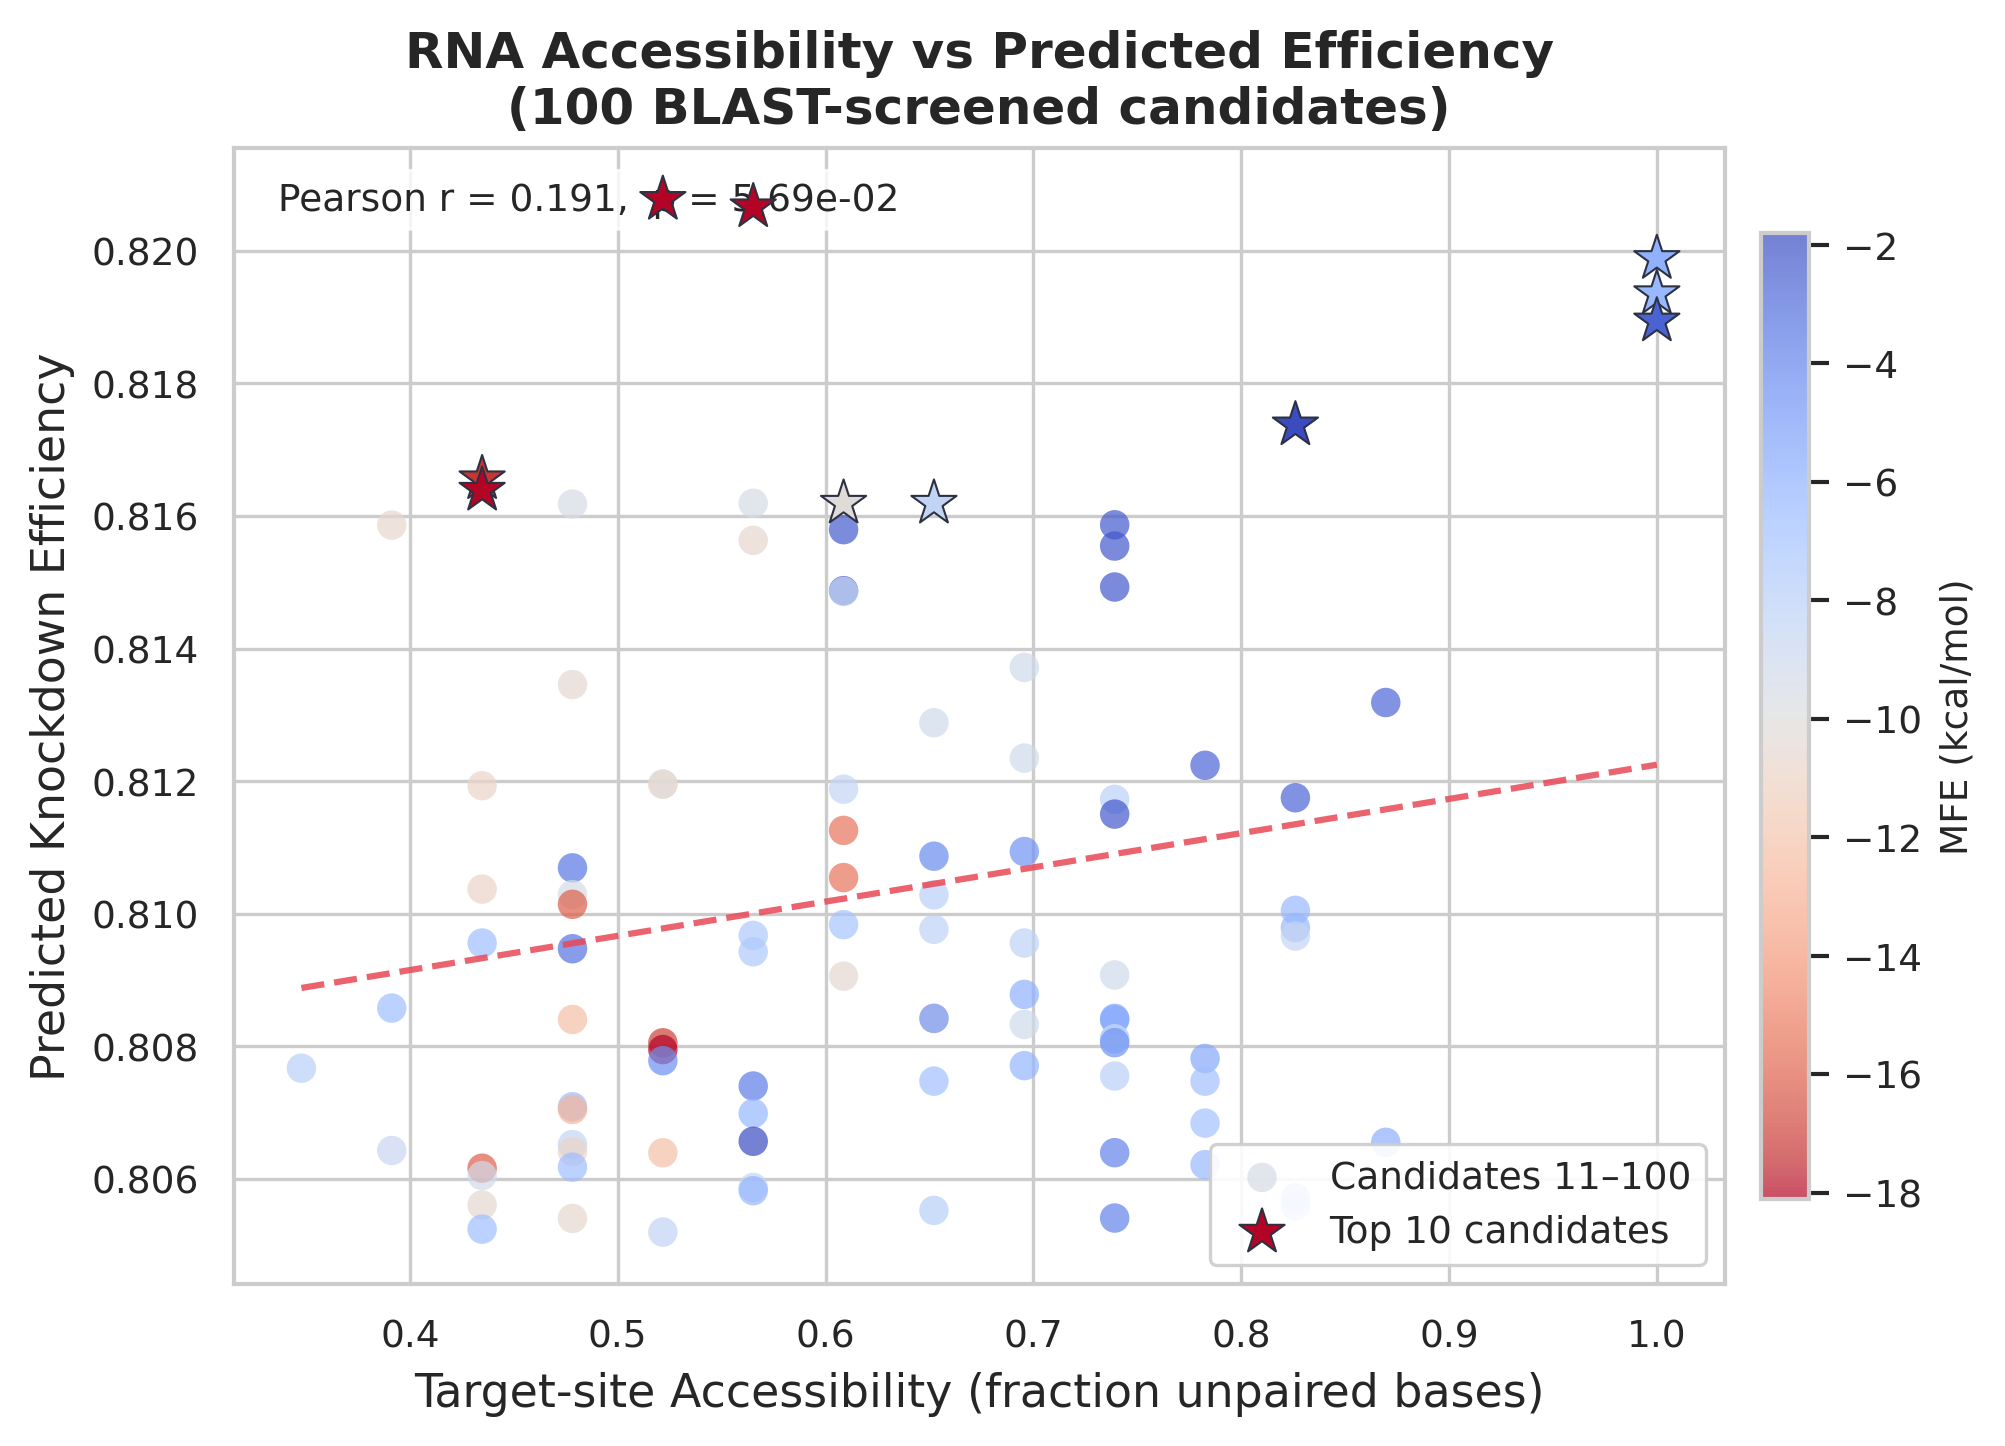
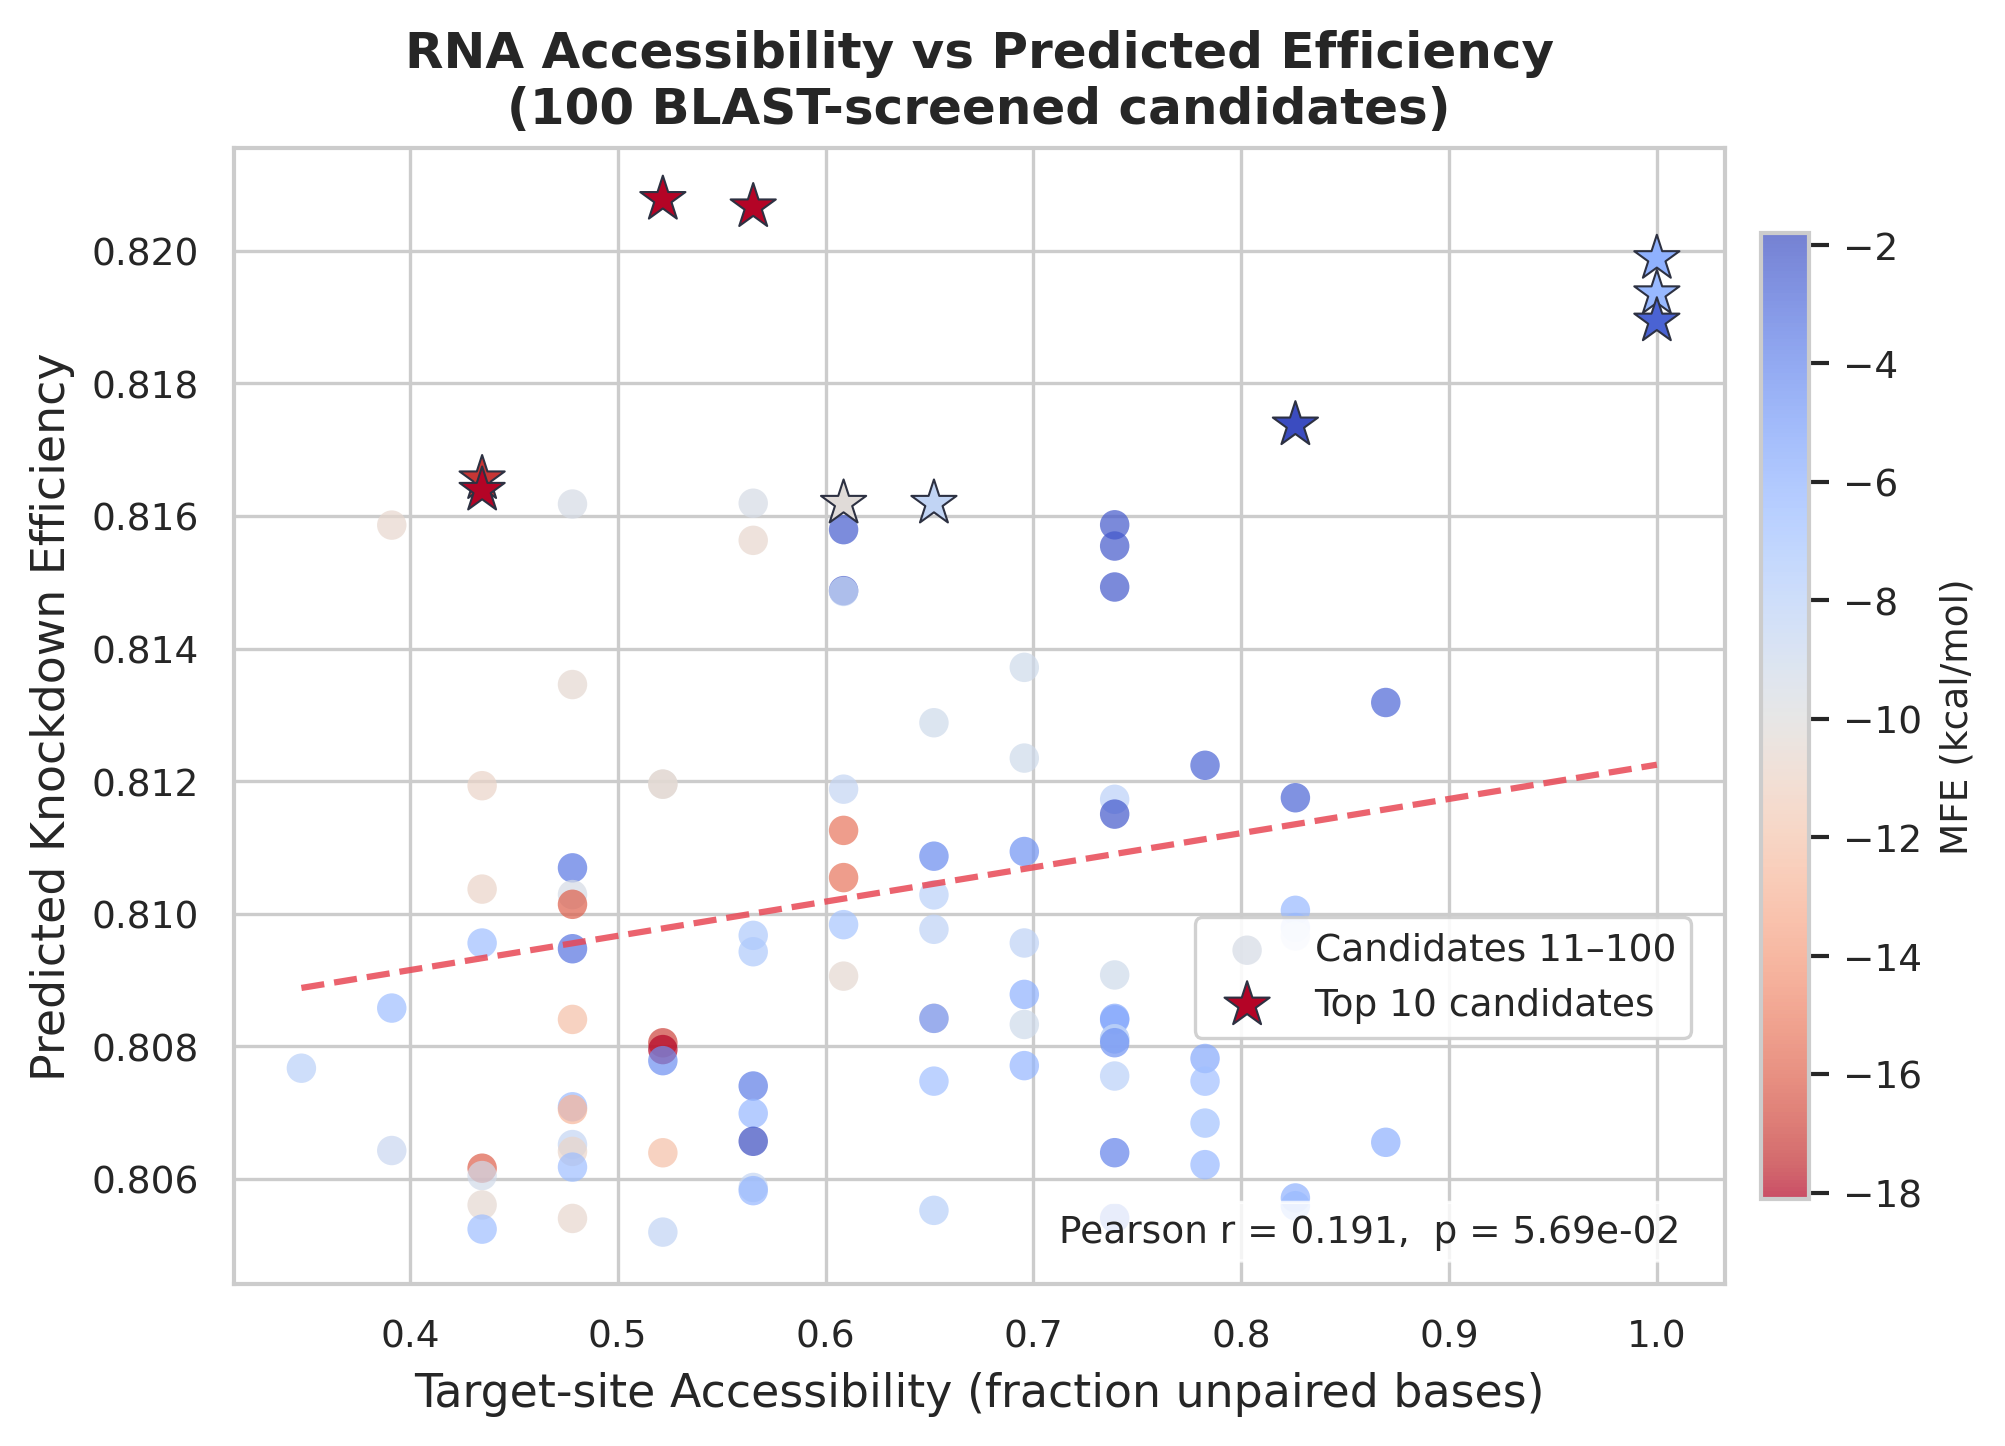
Move Pearson r annotation to bottom-right in fig2 accessibility scatter
Relocates the correlation label from the top-left corner to sit below
the legend in the bottom-right corner of the plot area for cleaner layout.

diff --git a/scripts/06_statistics_viz.py b/scripts/06_statistics_viz.py
@@ -192,11 +192,6 @@ def fig_accessibility_scatter(ranked: pd.DataFrame):
     ax.plot(x_line, m * x_line + b, color=ACCENT, linewidth=1.5,
             linestyle="--", zorder=3, alpha=0.85)
 
-    ax.text(0.03, 0.97,
-            f"Pearson r = {r_val:.3f},  p = {p_val:.2e}",
-            transform=ax.transAxes, va="top", ha="left",
-            fontsize=9, bbox=dict(boxstyle="round,pad=0.3", fc="white", alpha=0.8))
-
     cbar = fig.colorbar(sc, ax=ax, pad=0.02, shrink=0.85)
     cbar.set_label("MFE (kcal/mol)", fontsize=9)
 
@@ -204,7 +199,12 @@ def fig_accessibility_scatter(ranked: pd.DataFrame):
     ax.set_ylabel("Predicted Knockdown Efficiency")
     ax.set_title("RNA Accessibility vs Predicted Efficiency\n(100 BLAST-screened candidates)",
                  fontweight="bold")
-    ax.legend(loc="lower right", framealpha=0.9)
+    ax.legend(loc="lower right", bbox_to_anchor=(0.99, 0.20), framealpha=0.9)
+
+    ax.text(0.97, 0.03,
+            f"Pearson r = {r_val:.3f},  p = {p_val:.2e}",
+            transform=ax.transAxes, va="bottom", ha="right",
+            fontsize=9, bbox=dict(boxstyle="round,pad=0.3", fc="white", alpha=0.8))
 
     fig.tight_layout()
     path = OUT_DIR / "fig2_accessibility_scatter.png"
